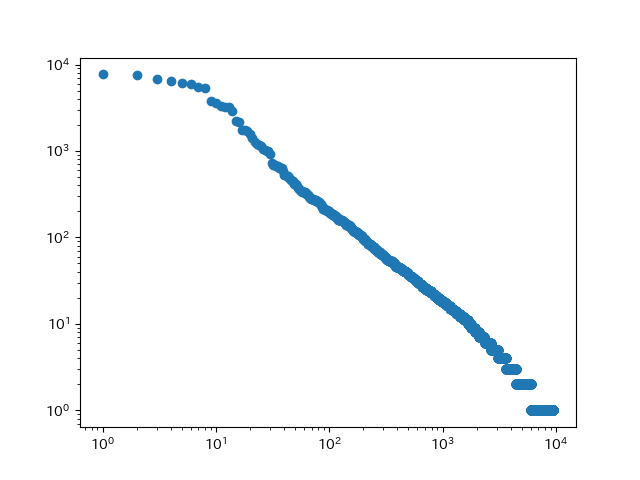
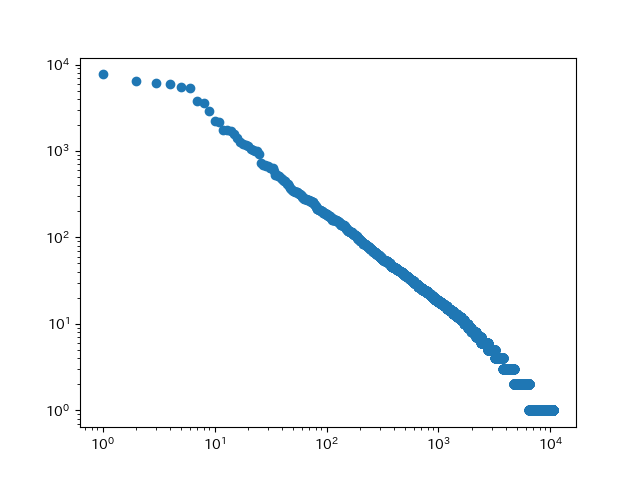
modify knocks

diff --git a/takuo/chapter04/knock35.py b/takuo/chapter04/knock35.py
@@ -6,10 +6,16 @@ mecabed = get_mecabed_list("chapter04/neko.txt.mecab")
 union_dict = {}
 for line in mecabed:
     for dic in line:
-        union_dict.setdefault(dic["base"], 0)
-        union_dict[dic["base"]] += 1
+        if (dic["pos"] == "特殊"):
+            continue
+        if(dic["base"]=='*'): #{'surface': '仙', 'base': '*', 'pos': '名詞', 'pos1': '人名'},{'surface': '六十', 'base': '*', 'pos': '名詞', 'pos1': '数詞'}
+            dict_key=dic["surface"]
+        else:
+            dict_key=dic["base"]
+        union_dict.setdefault(dict_key, 0)
+        union_dict[dict_key] += 1
 word_freq = sorted(union_dict.items(), key=itemgetter(1), reverse=True)
 
-if __name__=="__main__":
+if __name__ == "__main__":
     print(word_freq)
 # ('の', 7683), ('。', 7486), ('、', 6772), ('は', 6428), ('を', 6119), ('と', 5974),...

diff --git a/takuo/chapter04/knock37.py b/takuo/chapter04/knock37.py
@@ -7,7 +7,11 @@ mecabed = get_mecabed_list("chapter04/neko.txt.mecab")
 
 words_with_neko = {}
 for line in mecabed:
-    surfs = [dic["base"] for dic in line]
+    surfs=[]
+    for dic in line:
+        if (dic["pos"] == "特殊"):
+            continue
+        surfs.append(dic["base"])
     if ('猫' not in surfs):
         continue  # ループの先頭に戻る
     for word in surfs:
@@ -23,4 +27,4 @@ counts = [tup[1] for tup in words_with_neko_sorted[0:10]]
 
 barplt = pyplot.bar(words, counts)
 pyplot.bar_label(barplt, label_type="edge")
-pyplot.savefig("chapter04/out_knock37.png")
+pyplot.savefig("chapter04/out_knock37_.png")

diff --git a/takuo/chapter04/knock30.py b/takuo/chapter04/knock30.py
@@ -31,4 +31,5 @@ def get_mecabed_list(mecabed_text_path: str) -> list:
 
 
 if __name__ == "__main__":
-    print(get_mecabed_list("chapter04/neko.txt.mecab"))
+    mec = get_mecabed_list("chapter04/neko.txt.mecab")
+    print(mec)

diff --git a/takuo/chapter04/knock36.py b/takuo/chapter04/knock36.py
@@ -8,4 +8,4 @@ freqs = [tup[1] for tup in head10]
 
 barplt = pyplot.bar(words, freqs)
 pyplot.bar_label(barplt, label_type="edge")
-pyplot.savefig("chapter04/out_knock36.png")
+pyplot.savefig("chapter04/out_knock36_.png")
